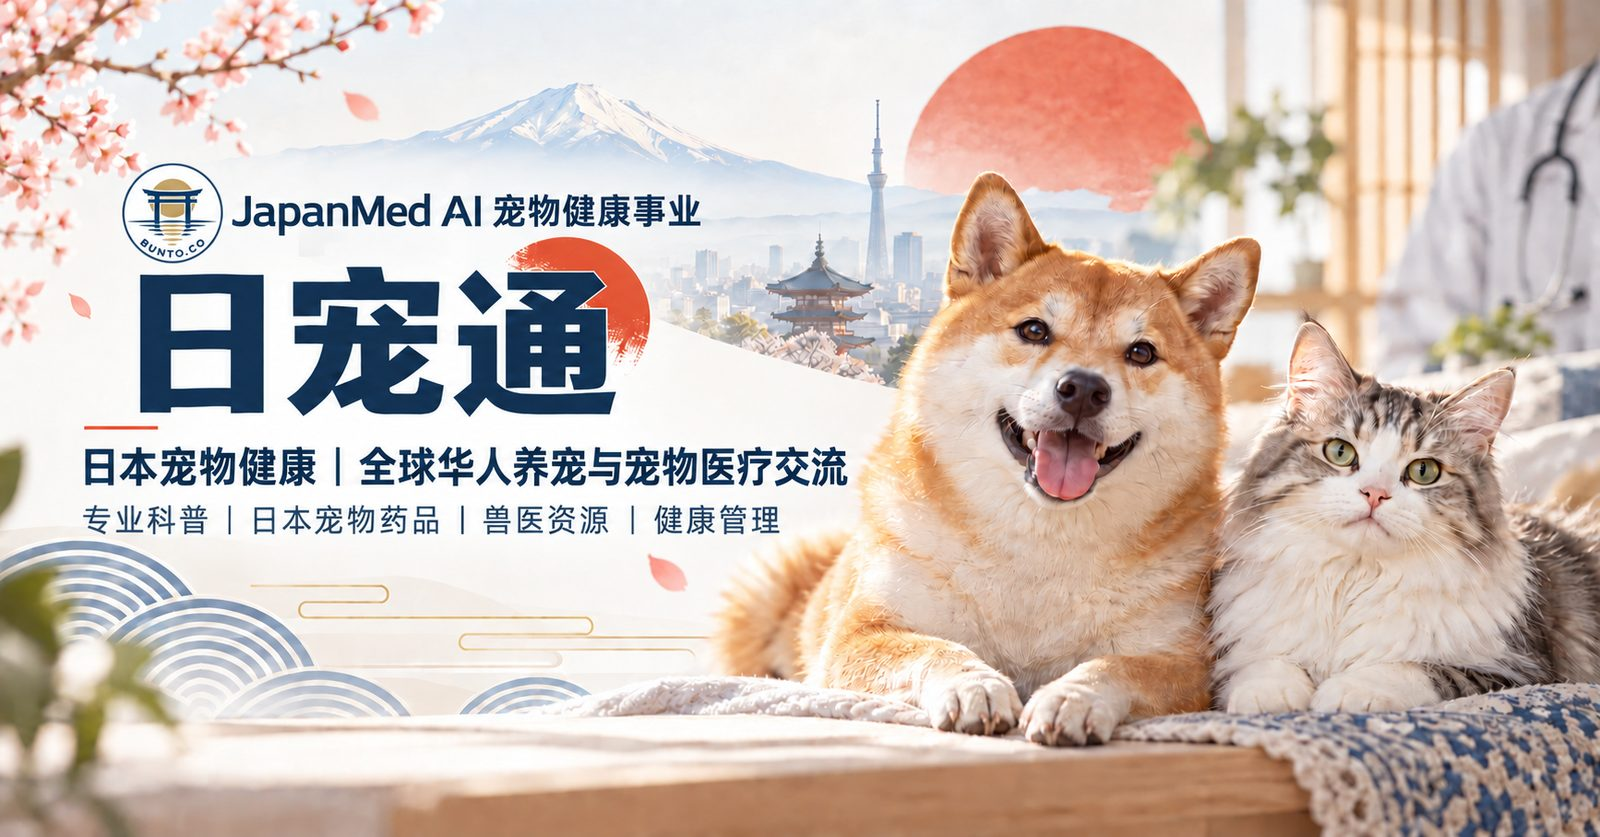
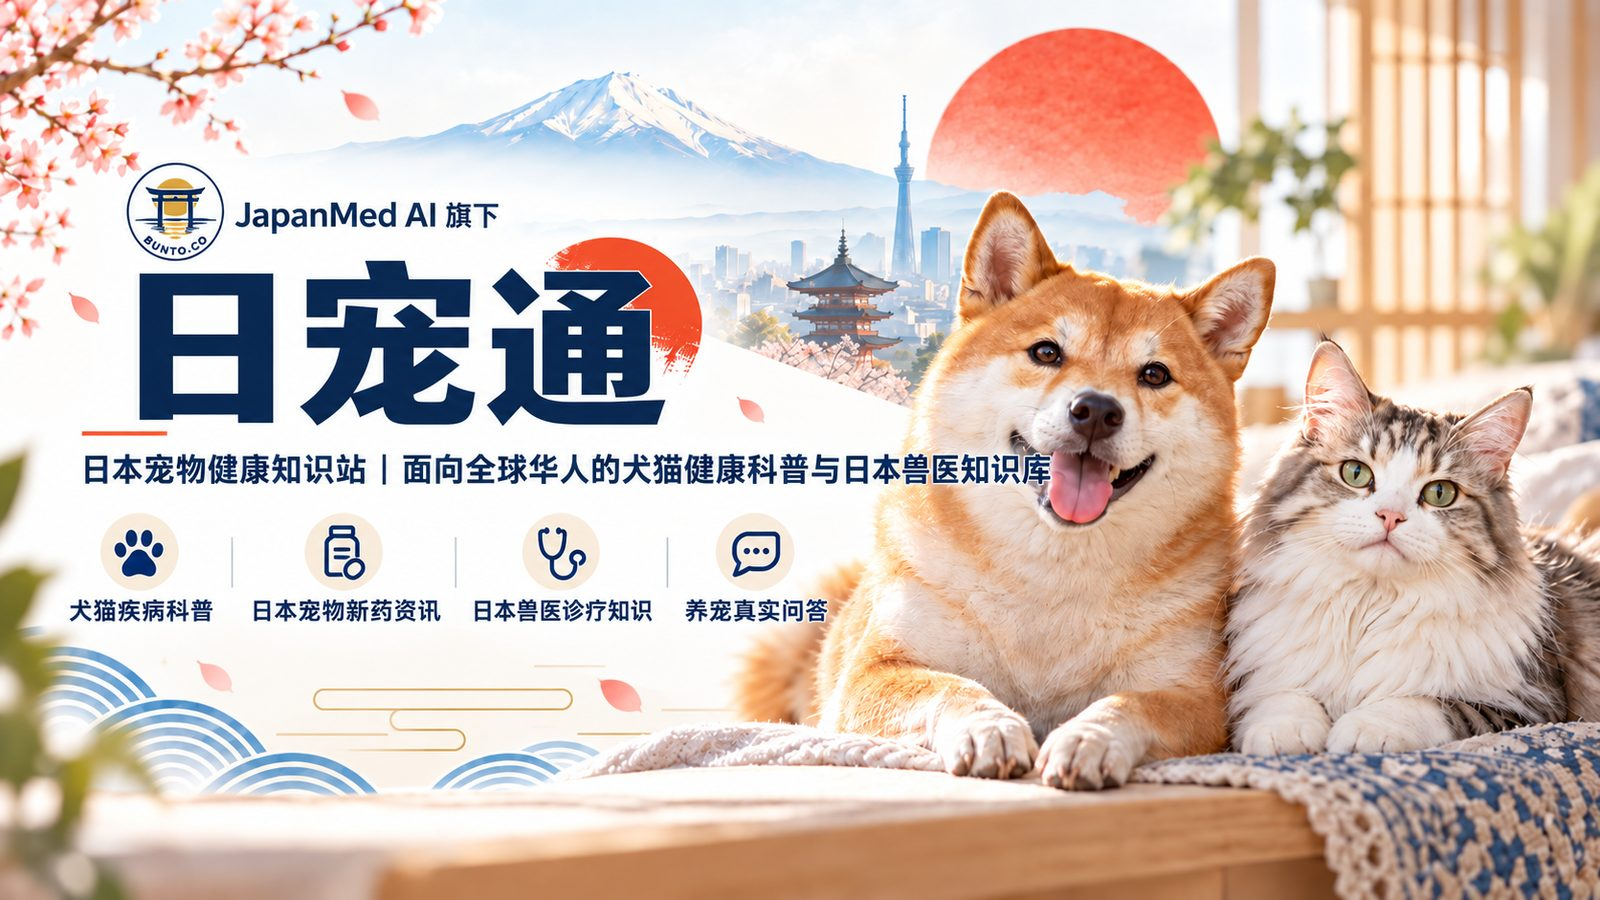
日宠通头图第三版 + 首页文案统一为「日本宠物健康知识站」 (#6)
* pet-site: swap in revised 日宠通 banner (知识站 positioning)

Claude-Session: https://claude.ai/code/session_011md78m8nCKEUF7XQRhSX4x

* pet-site: banner v3 (Founder 17:52) + align H1/intro/trust line/title/footer with 日本宠物健康知识站 copy

Claude-Session: https://claude.ai/code/session_011md78m8nCKEUF7XQRhSX4x

---------

diff --git a/pet-site/api/pet.js b/pet-site/api/pet.js
@@ -48,14 +48,14 @@ const articles = [
 
 function esc(s=''){return String(s).replace(/[&<>"']/g,c=>({'&':'&amp;','<':'&lt;','>':'&gt;','"':'&quot;',"'":'&#39;'}[c]));}
 function slugPath(path=''){return path.replace(/^\/+|\/+$/g,'');}
-function pageTitle(title){return title?`${title}｜${SITE}`:`${SITE}｜日本宠物健康与精准兽医知识库`;}
+function pageTitle(title){return title?`${title}｜${SITE}`:`${SITE}｜日本宠物健康知识站`;}
 function canonical(path=''){const p=slugPath(path);return p?`${BASE}/${p}/`:`${BASE}/`;}
-function meta({title,description,path,jsonld=''}){const c=canonical(path);return `<!doctype html><html lang="zh-CN"><head><meta charset="utf-8"><meta name="viewport" content="width=device-width,initial-scale=1"><title>${esc(pageTitle(title))}</title><meta name="description" content="${esc(description)}"><meta name="robots" content="noindex,follow"><link rel="canonical" href="${c}"><meta property="og:type" content="article"><meta property="og:title" content="${esc(pageTitle(title))}"><meta property="og:description" content="${esc(description)}"><meta property="og:url" content="${c}"><meta name="theme-color" content="#176B57"><link rel="icon" href="/pet/assets/bunto-logo-192.png"><meta property="og:image" content="${BASE}/assets/richongtong-hero-1600.jpg">${jsonld?`<script type="application/ld+json">${jsonld}</script>`:''}<style>:root{--ink:#17312a;--muted:#61736e;--green:#176b57;--line:#dfe9e4;--soft:#eaf5f0;--shadow:0 12px 32px rgba(24,70,58,.08)}*{box-sizing:border-box}body{margin:0;font-family:ui-sans-serif,-apple-system,BlinkMacSystemFont,"Segoe UI","PingFang SC","Microsoft YaHei",sans-serif;background:linear-gradient(180deg,#f4faf7 0,#fff 340px);color:var(--ink);line-height:1.75}a{color:inherit;text-decoration:none}.wrap{max-width:1120px;margin:auto;padding:0 24px}.top{position:sticky;top:0;z-index:10;background:rgba(255,255,255,.92);backdrop-filter:blur(12px);border-bottom:1px solid var(--line)}.nav{height:72px;display:flex;align-items:center;justify-content:space-between;gap:24px}.brand{display:flex;align-items:center;gap:12px;font-weight:800}.paw{width:40px;height:40px;border-radius:14px;background:var(--green);display:grid;place-items:center;color:white;font-size:22px}.brand small{display:block;font-weight:500;color:var(--muted);font-size:11px;margin-top:-2px}.links{display:flex;gap:22px;font-size:14px;color:#38574f}.hero{padding:28px 0 42px}.heroimg{display:block;width:100%;height:auto;border-radius:20px;box-shadow:var(--shadow);margin-bottom:22px}.logo{width:44px;height:44px;object-fit:contain;display:block}.eyebrow{display:inline-flex;gap:8px;align-items:center;font-size:13px;color:var(--green);background:var(--soft);border:1px solid #d5eadf;padding:7px 11px;border-radius:999px}.hero h1{font-size:36px;line-height:1.16;max-width:760px;margin:18px 0 14px}.hero p{font-size:18px;color:var(--muted);max-width:760px}.search{display:flex;gap:10px;max-width:720px;margin-top:28px}.search input{flex:1;border:1px solid var(--line);border-radius:14px;padding:15px 18px;font-size:16px;background:#fff;box-shadow:var(--shadow)}.btn{border:0;background:var(--green);color:#fff;border-radius:14px;padding:0 20px;font-weight:700}.grid{display:grid;grid-template-columns:repeat(3,1fr);gap:18px}.card{background:#fff;border:1px solid var(--line);border-radius:20px;padding:22px;box-shadow:var(--shadow)}.card h3{font-size:18px;margin:6px 0 8px}.card p{color:var(--muted);font-size:14px;margin:0}.tag{font-size:12px;color:var(--green);font-weight:700}.section{padding:28px 0 46px}.section-head{display:flex;align-items:end;justify-content:space-between;margin-bottom:18px}.section-head h2{margin:0;font-size:28px}.section-head p{margin:4px 0 0;color:var(--muted)}.qa-list{display:grid;grid-template-columns:1fr 1fr;gap:14px}.qa{background:#fff;border:1px solid var(--line);border-radius:16px;padding:17px 18px}.qa b{display:block;margin-bottom:5px}.qa span{color:var(--muted);font-size:13px}.trust{display:grid;grid-template-columns:repeat(4,1fr);gap:12px}.trust div{background:var(--soft);border-radius:16px;padding:18px}.trust strong{display:block;color:var(--green);margin-bottom:4px}.article{max-width:820px;margin:46px auto 70px;padding:0 18px}.crumb{font-size:13px;color:var(--muted);margin-bottom:18px}.article h1{font-size:38px;line-height:1.25;margin:8px 0 14px}.dek{font-size:18px;color:var(--muted);margin-bottom:24px}.direct{background:var(--soft);border-left:4px solid var(--green);padding:18px 20px;border-radius:0 16px 16px 0;margin:24px 0}.article p{font-size:17px;margin:0 0 18px}.note{background:#fff8ee;border:1px solid #f1ddbf;border-radius:16px;padding:18px 20px;margin-top:28px;color:#6a5336}.related{margin-top:38px;border-top:1px solid var(--line);padding-top:24px}.article h2{font-size:22px;margin:30px 0 10px}.article ol,.refs ul{padding-left:22px;font-size:17px;margin:0 0 18px}.refs a{color:var(--green)}.related a{display:block;padding:9px 0;color:var(--green)}.footer{border-top:1px solid var(--line);background:#fff;padding:34px 0;color:var(--muted);font-size:13px}.footrow{display:flex;justify-content:space-between;gap:20px;flex-wrap:wrap}.badge{display:inline-block;background:#fff;border:1px solid var(--line);border-radius:999px;padding:5px 10px;font-size:12px;color:var(--muted);margin-right:6px}@media(max-width:820px){.links{display:none}.hero{padding-top:44px}.hero h1{font-size:36px}.grid,.qa-list{grid-template-columns:1fr}.trust{grid-template-columns:1fr 1fr}.article h1{font-size:31px}.search{flex-direction:column}.btn{height:48px}}@media(max-width:520px){.trust{grid-template-columns:1fr}.hero h1{font-size:32px}}</style></head><body>`;}
+function meta({title,description,path,jsonld=''}){const c=canonical(path);return `<!doctype html><html lang="zh-CN"><head><meta charset="utf-8"><meta name="viewport" content="width=device-width,initial-scale=1"><title>${esc(pageTitle(title))}</title><meta name="description" content="${esc(description)}"><meta name="robots" content="noindex,follow"><link rel="canonical" href="${c}"><meta property="og:type" content="article"><meta property="og:title" content="${esc(pageTitle(title))}"><meta property="og:description" content="${esc(description)}"><meta property="og:url" content="${c}"><meta name="theme-color" content="#176B57"><link rel="icon" href="/pet/assets/bunto-logo-192.png"><meta property="og:image" content="${BASE}/assets/richongtong-hero-1600.jpg">${jsonld?`<script type="application/ld+json">${jsonld}</script>`:''}<style>:root{--ink:#17312a;--muted:#61736e;--green:#176b57;--line:#dfe9e4;--soft:#eaf5f0;--shadow:0 12px 32px rgba(24,70,58,.08)}*{box-sizing:border-box}body{margin:0;font-family:ui-sans-serif,-apple-system,BlinkMacSystemFont,"Segoe UI","PingFang SC","Microsoft YaHei",sans-serif;background:linear-gradient(180deg,#f4faf7 0,#fff 340px);color:var(--ink);line-height:1.75}a{color:inherit;text-decoration:none}.wrap{max-width:1120px;margin:auto;padding:0 24px}.top{position:sticky;top:0;z-index:10;background:rgba(255,255,255,.92);backdrop-filter:blur(12px);border-bottom:1px solid var(--line)}.nav{height:72px;display:flex;align-items:center;justify-content:space-between;gap:24px}.brand{display:flex;align-items:center;gap:12px;font-weight:800}.paw{width:40px;height:40px;border-radius:14px;background:var(--green);display:grid;place-items:center;color:white;font-size:22px}.brand small{display:block;font-weight:500;color:var(--muted);font-size:11px;margin-top:-2px}.links{display:flex;gap:22px;font-size:14px;color:#38574f}.hero{padding:28px 0 42px}.heroimg{display:block;width:100%;height:auto;border-radius:20px;box-shadow:var(--shadow);margin-bottom:22px}.logo{width:44px;height:44px;object-fit:contain;display:block}.eyebrow{display:inline-flex;gap:8px;align-items:center;font-size:13px;color:var(--green);background:var(--soft);border:1px solid #d5eadf;padding:7px 11px;border-radius:999px}.hero h1{font-size:36px;line-height:1.16;max-width:760px;margin:18px 0 14px}.trustline{font-size:14px!important;color:var(--green)!important;margin-top:-4px}.hero p{font-size:18px;color:var(--muted);max-width:760px}.search{display:flex;gap:10px;max-width:720px;margin-top:28px}.search input{flex:1;border:1px solid var(--line);border-radius:14px;padding:15px 18px;font-size:16px;background:#fff;box-shadow:var(--shadow)}.btn{border:0;background:var(--green);color:#fff;border-radius:14px;padding:0 20px;font-weight:700}.grid{display:grid;grid-template-columns:repeat(3,1fr);gap:18px}.card{background:#fff;border:1px solid var(--line);border-radius:20px;padding:22px;box-shadow:var(--shadow)}.card h3{font-size:18px;margin:6px 0 8px}.card p{color:var(--muted);font-size:14px;margin:0}.tag{font-size:12px;color:var(--green);font-weight:700}.section{padding:28px 0 46px}.section-head{display:flex;align-items:end;justify-content:space-between;margin-bottom:18px}.section-head h2{margin:0;font-size:28px}.section-head p{margin:4px 0 0;color:var(--muted)}.qa-list{display:grid;grid-template-columns:1fr 1fr;gap:14px}.qa{background:#fff;border:1px solid var(--line);border-radius:16px;padding:17px 18px}.qa b{display:block;margin-bottom:5px}.qa span{color:var(--muted);font-size:13px}.trust{display:grid;grid-template-columns:repeat(4,1fr);gap:12px}.trust div{background:var(--soft);border-radius:16px;padding:18px}.trust strong{display:block;color:var(--green);margin-bottom:4px}.article{max-width:820px;margin:46px auto 70px;padding:0 18px}.crumb{font-size:13px;color:var(--muted);margin-bottom:18px}.article h1{font-size:38px;line-height:1.25;margin:8px 0 14px}.dek{font-size:18px;color:var(--muted);margin-bottom:24px}.direct{background:var(--soft);border-left:4px solid var(--green);padding:18px 20px;border-radius:0 16px 16px 0;margin:24px 0}.article p{font-size:17px;margin:0 0 18px}.note{background:#fff8ee;border:1px solid #f1ddbf;border-radius:16px;padding:18px 20px;margin-top:28px;color:#6a5336}.related{margin-top:38px;border-top:1px solid var(--line);padding-top:24px}.article h2{font-size:22px;margin:30px 0 10px}.article ol,.refs ul{padding-left:22px;font-size:17px;margin:0 0 18px}.refs a{color:var(--green)}.related a{display:block;padding:9px 0;color:var(--green)}.footer{border-top:1px solid var(--line);background:#fff;padding:34px 0;color:var(--muted);font-size:13px}.footrow{display:flex;justify-content:space-between;gap:20px;flex-wrap:wrap}.badge{display:inline-block;background:#fff;border:1px solid var(--line);border-radius:999px;padding:5px 10px;font-size:12px;color:var(--muted);margin-right:6px}@media(max-width:820px){.links{display:none}.hero{padding-top:44px}.hero h1{font-size:36px}.grid,.qa-list{grid-template-columns:1fr}.trust{grid-template-columns:1fr 1fr}.article h1{font-size:31px}.search{flex-direction:column}.btn{height:48px}}@media(max-width:520px){.trust{grid-template-columns:1fr}.hero h1{font-size:32px}}</style></head><body>`;}
 function header(){return `<div class="top"><div class="wrap nav"><a class="brand" href="/pet/"><img class="logo" src="/pet/assets/bunto-logo-192.png" alt="BUNTO.CO 文腾株式会社" width="44" height="44"><div>日宠通<small>Japan Pet Health Knowledge</small></div></a><div class="links"><a href="/pet/">首页</a><a href="/pet/cat/">猫健康</a><a href="/pet/dog/">狗健康</a><a href="/pet/new-drugs/">日本宠物新药</a><a href="/pet/qa/">健康问答</a><a href="/pet/about/">关于</a></div></div></div>`;}
-function footer(){return `<footer class="footer"><div class="wrap footrow"><div><b style="color:var(--ink)">日宠通</b> · 日本宠物健康与精准兽医知识库<br>A knowledge project by JapanMed AI</div><div>内容用于宠物健康科普，不替代兽医诊断与治疗。<br>资料核对日期：${UPDATED}</div></div></footer>`;}
+function footer(){return `<footer class="footer"><div class="wrap footrow"><div><b style="color:var(--ink)">日宠通</b> · 日本宠物健康知识站<br>A knowledge project by JapanMed AI</div><div>内容用于宠物健康科普，不替代兽医诊断与治疗。<br>资料核对日期：${UPDATED}</div></div></footer>`;}
 function layout(content,opts){return meta(opts)+header()+content+footer()+`</body></html>`;}
 function card(a){return `<a class="qa" href="/pet/qa/${a.slug}/"><b>${esc(a.title)}</b><span>${esc(a.species)} · ${esc(a.topic)}　${esc(a.summary)}</span></a>`;}
-function home(){const jsonld=JSON.stringify({'@context':'https://schema.org','@type':'WebSite',name:'日宠通',url:`${BASE}/`,description:'日本宠物健康与精准兽医知识库，持续整理犬猫健康、日本宠物新药与日本兽医医疗进展。',publisher:{'@type':'Organization',name:'JapanMed AI'}});return layout(`<main><section class="hero"><div class="wrap"><picture><source type="image/webp" srcset="/pet/assets/richongtong-hero-900.webp 900w, /pet/assets/richongtong-hero-1600.webp 1600w" sizes="(max-width:1120px) 100vw, 1072px"><img class="heroimg" src="/pet/assets/richongtong-hero-1600.jpg" width="1600" height="837" alt="日宠通｜JapanMed AI 宠物健康事业：日本宠物健康，全球华人养宠与宠物医疗交流" fetchpriority="high"></picture><h1>日宠通｜日本宠物健康与精准兽医知识库</h1><p>持续整理犬猫常见健康问题、日本宠物新药与日本兽医医疗进展。用清楚、克制、可核对的方式回答宠物主人真正会问的问题。</p><div class="search"><input id="q" placeholder="搜索：猫皮屑、狗舔脚、过敏、肾病……"><button class="btn" onclick="runSearch()">搜索知识库</button></div><div id="searchBox" style="margin-top:16px"></div></div></section><section class="section"><div class="wrap"><div class="section-head"><div><h2>从真实问题进入</h2><p>比“大而全”的百科更接近宠物主人真实搜索意图。</p></div><a class="tag" href="/pet/qa/">查看全部 →</a></div><div class="qa-list">${articles.slice(0,8).map(card).join('')}</div></div></section><section class="section"><div class="wrap"><div class="section-head"><div><h2>知识栏目</h2><p>独立导航、独立内容体系，不与人的医疗内容混合。</p></div></div><div class="grid"><a class="card" href="/pet/cat/"><span class="tag">CAT HEALTH</span><h3>猫健康</h3><p>皮肤、被毛、泌尿、肾脏、老年猫等日常高频问题。</p></a><a class="card" href="/pet/dog/"><span class="tag">DOG HEALTH</span><h3>狗健康</h3><p>皮肤过敏、舔脚、掉毛、耳部、慢病管理与复诊准备。</p></a><a class="card" href="/pet/new-drugs/"><span class="tag">JAPAN VETERINARY DRUGS</span><h3>日本宠物新药</h3><p>仅收录经过日本官方公开资料核对的新药与新适应症信息。</p></a></div></div></section><section class="section"><div class="wrap"><div class="section-head"><div><h2>内容原则</h2><p>为搜索引擎和AI提供结构清楚、来源可追踪的知识节点。</p></div></div><div class="trust"><div><strong>真实性优先</strong><span>不编造病例、药物信息或专家观点。</span></div><div><strong>问题导向</strong><span>每页聚焦一个明确的主人问题。</span></div><div><strong>明确边界</strong><span>科普不替代兽医检查与治疗。</span></div><div><strong>持续核对</strong><span>涉及日本批准信息优先核对官方资料。</span></div></div></div></section></main><script>const ALL=${JSON.stringify(articles.map(a=>({title:a.title,summary:a.summary,slug:a.slug,species:a.species,topic:a.topic})))};function runSearch(){const q=document.getElementById('q').value.trim().toLowerCase();const box=document.getElementById('searchBox');if(!q){box.innerHTML='';return}const rs=ALL.filter(a=>(a.title+a.summary+a.species+a.topic).toLowerCase().includes(q)).slice(0,8);box.innerHTML=rs.length?'<div class="qa-list">'+rs.map(a=>'<a class="qa" href="/pet/qa/'+a.slug+'/"><b>'+a.title+'</b><span>'+a.species+' · '+a.topic+'　'+a.summary+'</span></a>').join('')+'</div>':'<div class="card">暂未找到匹配内容。知识库会持续扩充。</div>'}document.getElementById('q').addEventListener('keydown',e=>{if(e.key==='Enter')runSearch()});</script>`,{description:'日宠通是 JapanMed AI 旗下独立的日本宠物健康与精准兽医知识库，持续整理犬猫健康、日本宠物新药与日本兽医医疗进展。',path:'',jsonld});}
+function home(){const jsonld=JSON.stringify({'@context':'https://schema.org','@type':'WebSite',name:'日宠通',url:`${BASE}/`,description:'日宠通是 JapanMed AI 旗下的日本宠物健康知识站，面向全球华人提供犬猫健康科普与日本兽医知识。',publisher:{'@type':'Organization',name:'JapanMed AI'}});return layout(`<main><section class="hero"><div class="wrap"><picture><source type="image/webp" srcset="/pet/assets/richongtong-hero-900.webp 900w, /pet/assets/richongtong-hero-1600.webp 1600w" sizes="(max-width:1120px) 100vw, 1072px"><img class="heroimg" src="/pet/assets/richongtong-hero-1600.jpg" width="1600" height="900" alt="日宠通｜JapanMed AI 旗下日本宠物健康知识站：犬猫疾病科普、日本宠物新药资讯、日本兽医诊疗知识、养宠真实问答" fetchpriority="high"></picture><h1>日宠通｜日本宠物健康知识站</h1><p>面向全球华人的犬猫健康科普与日本兽医知识库：犬猫疾病科普、日本宠物新药资讯、日本兽医诊疗知识、养宠真实问答。</p><p class="trustline">资料来源可查 · 核对日期可见 · 不替代兽医诊断</p><div class="search"><input id="q" placeholder="搜索：猫皮屑、狗舔脚、过敏、肾病……"><button class="btn" onclick="runSearch()">搜索知识库</button></div><div id="searchBox" style="margin-top:16px"></div></div></section><section class="section"><div class="wrap"><div class="section-head"><div><h2>从真实问题进入</h2><p>比“大而全”的百科更接近宠物主人真实搜索意图。</p></div><a class="tag" href="/pet/qa/">查看全部 →</a></div><div class="qa-list">${articles.slice(0,8).map(card).join('')}</div></div></section><section class="section"><div class="wrap"><div class="section-head"><div><h2>知识栏目</h2><p>独立导航、独立内容体系，不与人的医疗内容混合。</p></div></div><div class="grid"><a class="card" href="/pet/cat/"><span class="tag">CAT HEALTH</span><h3>猫健康</h3><p>皮肤、被毛、泌尿、肾脏、老年猫等日常高频问题。</p></a><a class="card" href="/pet/dog/"><span class="tag">DOG HEALTH</span><h3>狗健康</h3><p>皮肤过敏、舔脚、掉毛、耳部、慢病管理与复诊准备。</p></a><a class="card" href="/pet/new-drugs/"><span class="tag">JAPAN VETERINARY DRUGS</span><h3>日本宠物新药</h3><p>仅收录经过日本官方公开资料核对的新药与新适应症信息。</p></a></div></div></section><section class="section"><div class="wrap"><div class="section-head"><div><h2>内容原则</h2><p>为搜索引擎和AI提供结构清楚、来源可追踪的知识节点。</p></div></div><div class="trust"><div><strong>真实性优先</strong><span>不编造病例、药物信息或专家观点。</span></div><div><strong>问题导向</strong><span>每页聚焦一个明确的主人问题。</span></div><div><strong>明确边界</strong><span>科普不替代兽医检查与治疗。</span></div><div><strong>持续核对</strong><span>涉及日本批准信息优先核对官方资料。</span></div></div></div></section></main><script>const ALL=${JSON.stringify(articles.map(a=>({title:a.title,summary:a.summary,slug:a.slug,species:a.species,topic:a.topic})))};function runSearch(){const q=document.getElementById('q').value.trim().toLowerCase();const box=document.getElementById('searchBox');if(!q){box.innerHTML='';return}const rs=ALL.filter(a=>(a.title+a.summary+a.species+a.topic).toLowerCase().includes(q)).slice(0,8);box.innerHTML=rs.length?'<div class="qa-list">'+rs.map(a=>'<a class="qa" href="/pet/qa/'+a.slug+'/"><b>'+a.title+'</b><span>'+a.species+' · '+a.topic+'　'+a.summary+'</span></a>').join('')+'</div>':'<div class="card">暂未找到匹配内容。知识库会持续扩充。</div>'}document.getElementById('q').addEventListener('keydown',e=>{if(e.key==='Enter')runSearch()});</script>`,{description:'日宠通是 JapanMed AI 旗下独立的日本宠物健康与精准兽医知识库，持续整理犬猫健康、日本宠物新药与日本兽医医疗进展。',path:'',jsonld});}
 function category(species){const list=articles.filter(a=>a.species===species);const title=`${species}健康知识库`;return layout(`<main class="article"><div class="crumb"><a href="/pet/">日宠通</a> / ${title}</div><h1>${title}</h1><p class="dek">围绕${species}主人真实会遇到的健康问题，持续扩展可检索的专业科普内容。</p><div class="qa-list">${list.map(card).join('')}</div></main>`,{title,description:`日宠通${title}：围绕真实宠物健康问题整理专业、客观、简洁的兽医科普。`,path:species==='猫'?'cat':'dog'});}
 function qaIndex(){return layout(`<main class="article"><div class="crumb"><a href="/pet/">日宠通</a> / 健康问答</div><h1>宠物健康问答</h1><p class="dek">一个问题一个页面，聚焦主人真正会搜索、会在复诊时提出的问题。</p><div class="qa-list">${articles.map(card).join('')}</div></main>`,{title:'宠物健康问答',description:'日宠通宠物健康问答，覆盖猫狗皮肤、过敏、掉毛、泌尿、肾病、肝胆等常见问题。',path:'qa'});}
 function newDrugs(){return layout(`<main class="article"><div class="crumb"><a href="/pet/">日宠通</a> / 日本宠物新药</div><h1>日本宠物新药</h1><p class="dek">这一栏目只做经过公开资料核对的日本动物用新药、新适应症与精准兽医进展，不做药品销售入口。</p><div class="direct"><b>收录标准</b><br>涉及“日本最新批准”“新适应症”“批准日期”等信息时，优先核对日本农林水产省、动物医药品检査所等官方公开资料；无法确认的内容不写成确定事实。</div><div class="card"><span class="tag">栏目建设中</span><h3>先建立标准，再扩大数量</h3><p>后续每个药物页面将包含：通用名、商品名、批准对象与疾病、批准日期、作用机制、官方来源、资料核对日期及相关问答。</p></div></main>`,{title:'日本宠物新药',description:'日宠通日本宠物新药栏目，收录经日本官方公开资料核对的动物用新药、新适应症与精准兽医进展。',path:'new-drugs'});}
